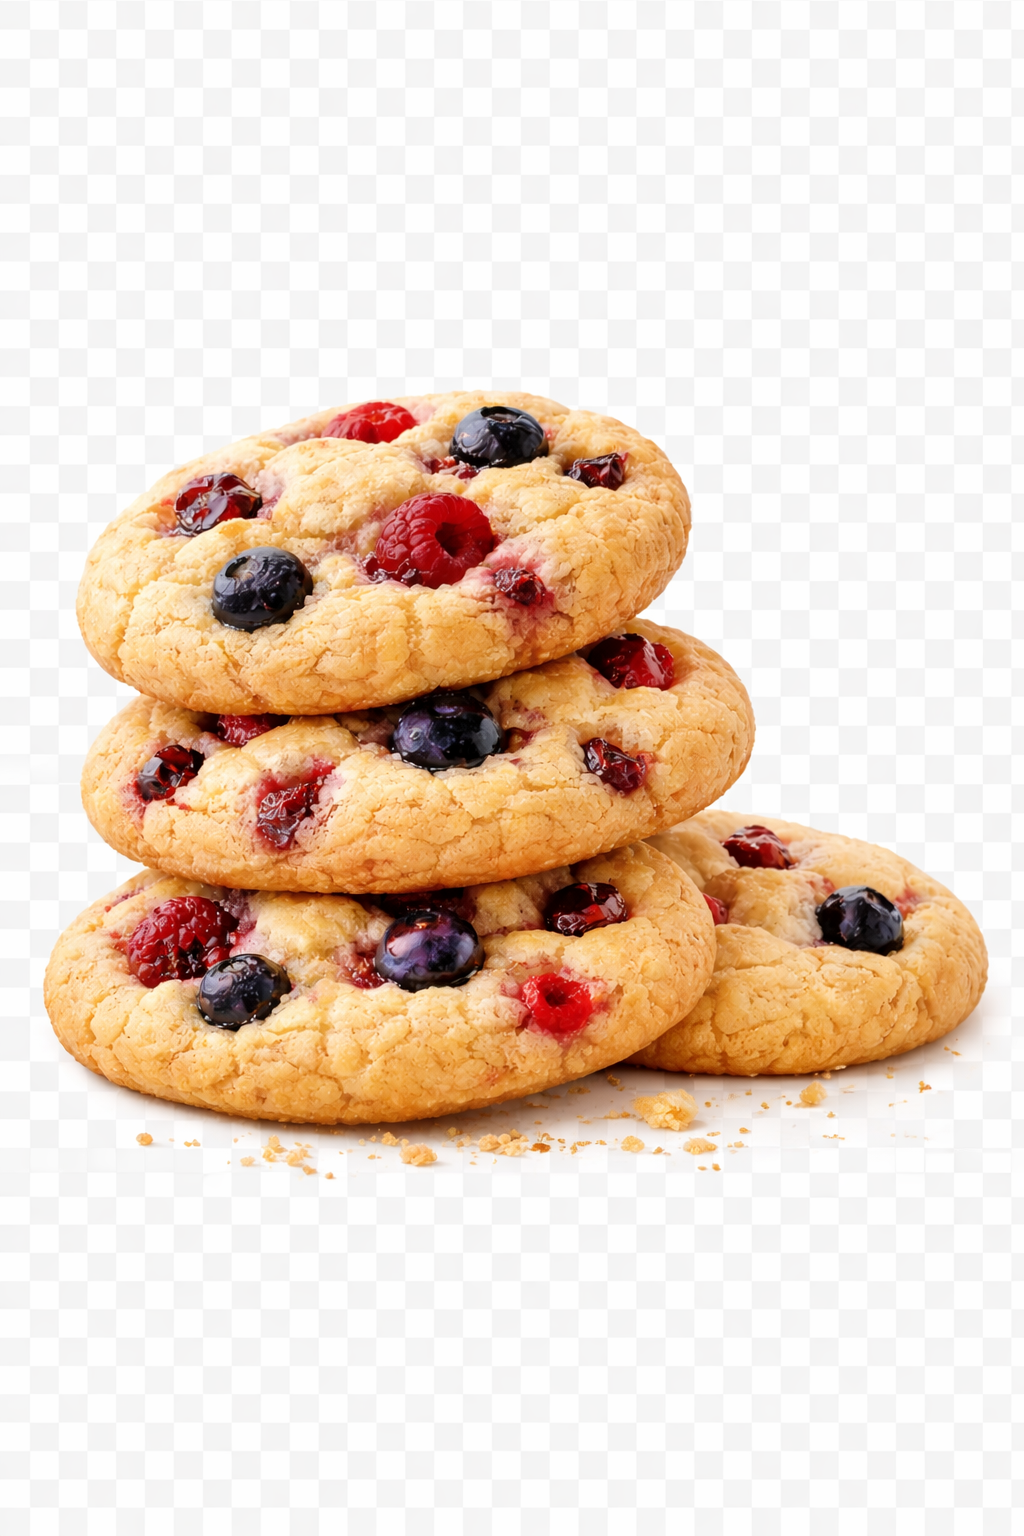
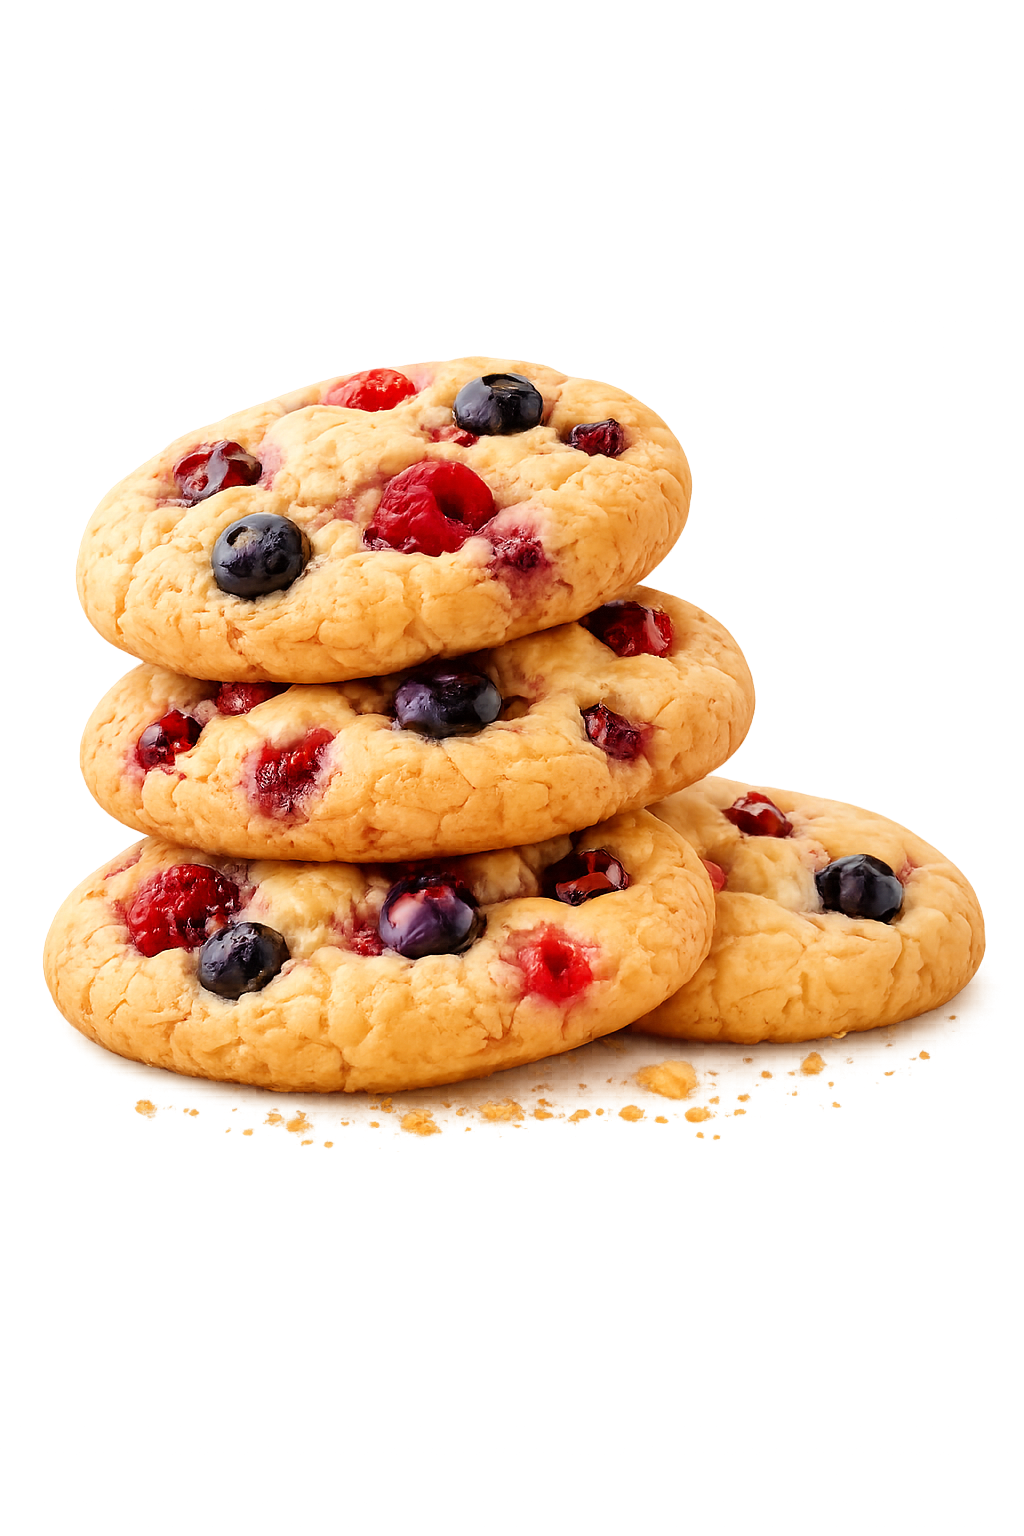
дизайн

diff --git a/style.css b/style.css
@@ -309,6 +309,7 @@ body {
   left: -30px;
 }
 
+/* Стилізація всіх секцій зі схожим дизайном */
 .container {
     max-width: 900px;
     width: 100%;
@@ -373,4 +374,33 @@ h1 {
 .swiper {
     width: 100%;
     padding-bottom: 50px;
+}
+
+/* Стилізація параграфів, списків та іншого контенту */
+section p {
+    color: var(--text2);
+    line-height: 1.8;
+}
+
+section ul,
+section ol {
+    color: var(--text2);
+    text-align: left;
+    display: inline-block;
+}
+
+section ul li,
+section ol li {
+    margin: 10px 0;
+}
+
+/* Стилізація для Swiper слайдів */
+.swiper-button-prev,
+.swiper-button-next {
+    color: var(--button);
+}
+
+.swiper-button-prev::after,
+.swiper-button-next::after {
+    font-size: 28px;
 }
